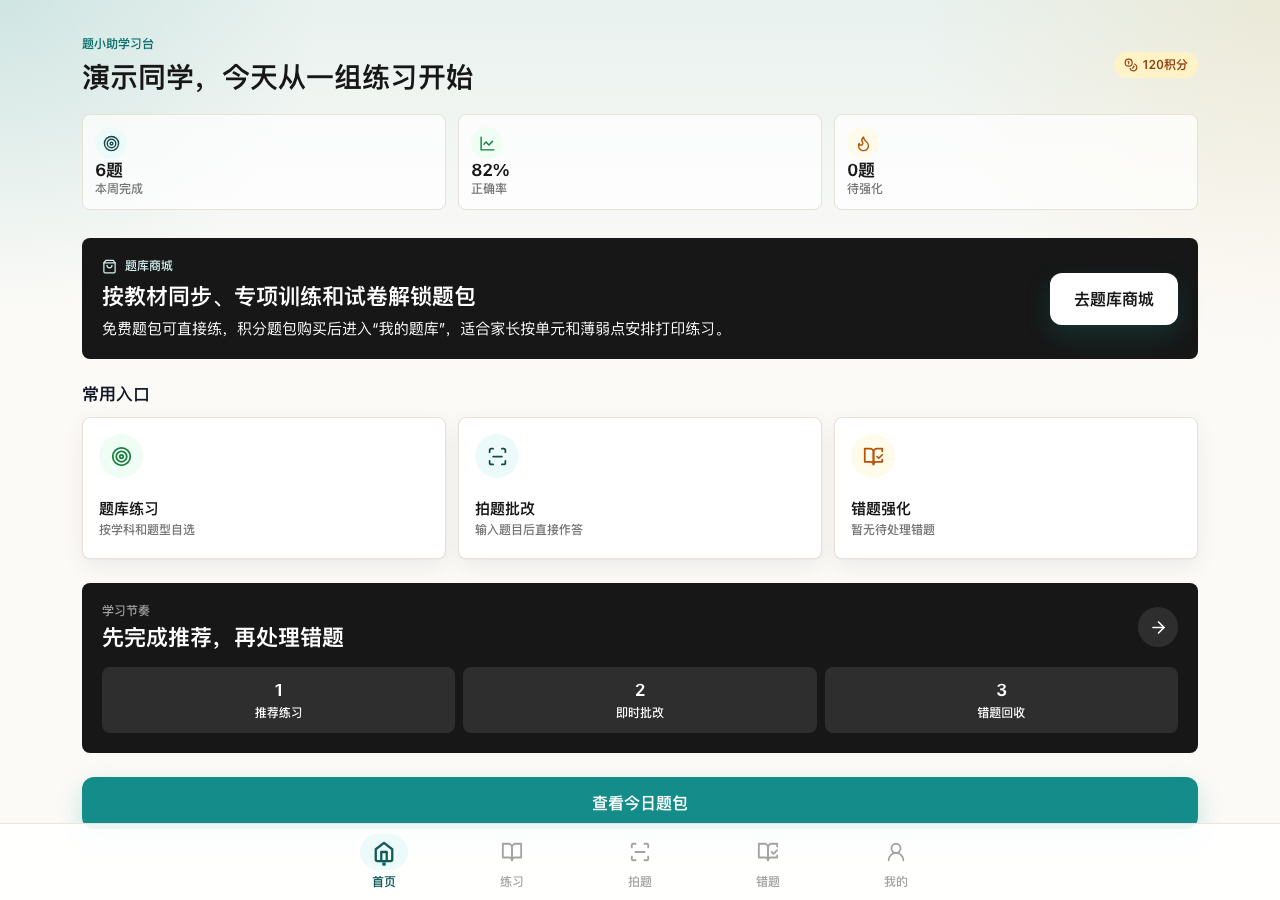
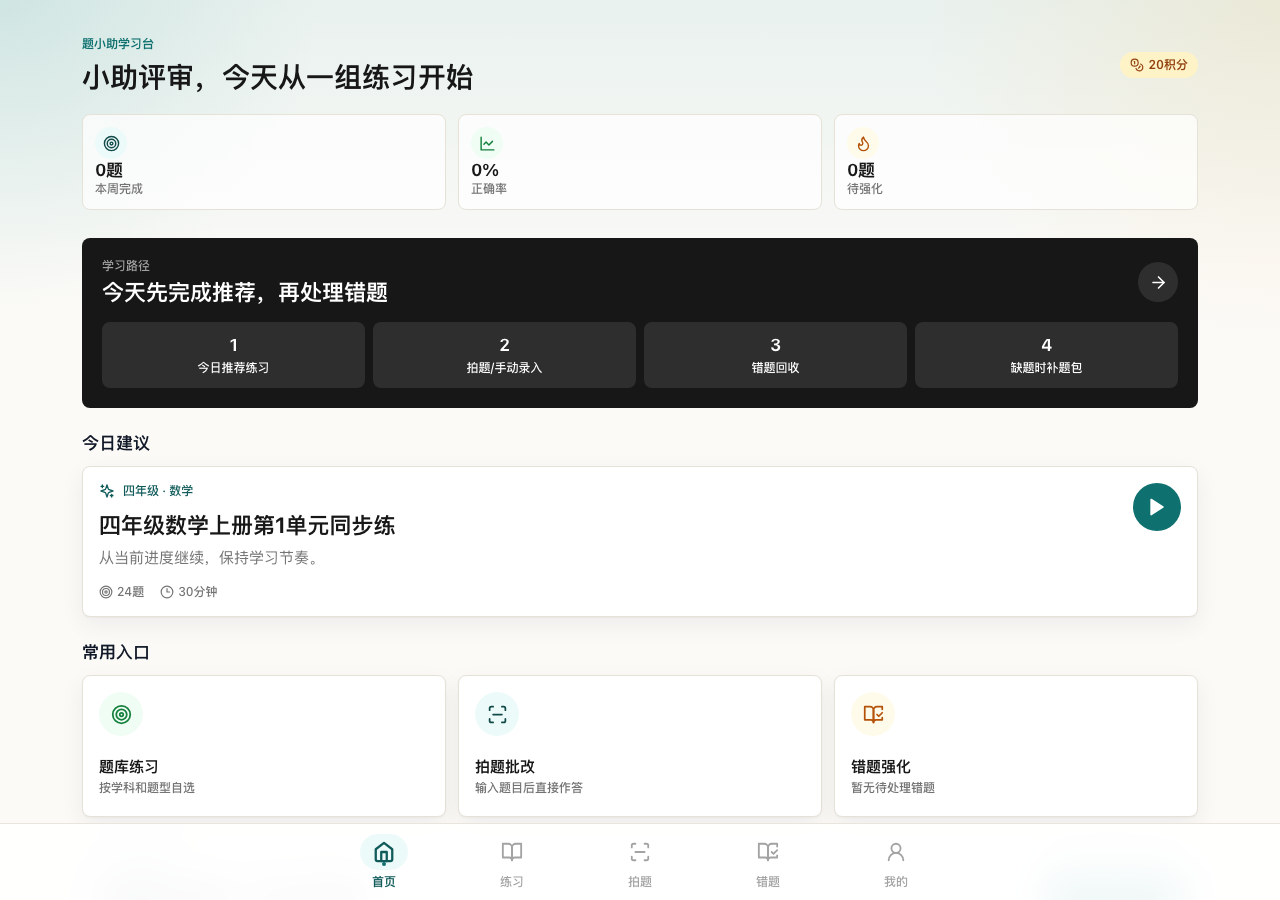
Refine education flow from reviewer feedback

diff --git a/frontend/src/pages/HomePage.jsx b/frontend/src/pages/HomePage.jsx
@@ -156,22 +156,23 @@ const HomePage = ({ onStartPractice, onContinuePractice, onStartWrongPractice, o
           animate={{ opacity: 1, y: 0 }}
           transition={{ delay: 0.05 }}
           className="mb-6 rounded-card bg-neutral-900 p-5 text-white"
-          data-testid="home-question-store-cta"
         >
-          <div className="grid gap-4 lg:grid-cols-[1fr_auto] lg:items-center">
+          <div className="mb-4 flex flex-col gap-3 sm:flex-row sm:items-center sm:justify-between">
             <div>
-              <div className="mb-2 flex items-center gap-2 text-caption-1 text-primary-100">
-                <ShoppingBag size={15} />
-                题库商城
-              </div>
-              <h2 className="text-title-1">按教材同步、专项训练和试卷解锁题包</h2>
-              <p className="mt-2 max-w-2xl text-subhead text-white/68">
-                免费题包可直接练，积分题包购买后进入“我的题库”，适合家长按单元和薄弱点安排打印练习。
-              </p>
+              <div className="text-caption-1 text-white/60">学习路径</div>
+              <h2 className="mt-1 text-title-1">今天先完成推荐，再处理错题</h2>
             </div>
-            <Button onClick={onOpenQuestionStore} className="bg-white text-neutral-900 hover:bg-white/90">
-              去题库商城
-            </Button>
+            <div className="flex h-10 w-10 items-center justify-center rounded-full bg-white/10">
+              <ArrowRight size={19} />
+            </div>
+          </div>
+          <div className="grid grid-cols-1 gap-2 text-center sm:grid-cols-4">
+            {['今日推荐练习', '拍题/手动录入', '错题回收', '缺题时补题包'].map((step, index) => (
+              <div key={step} className="rounded-card bg-white/10 px-2 py-3">
+                <div className="text-title-2">{index + 1}</div>
+                <div className="mt-1 text-caption-1 text-white/68">{step}</div>
+              </div>
+            ))}
           </div>
         </motion.section>
 
@@ -261,24 +262,23 @@ const HomePage = ({ onStartPractice, onContinuePractice, onStartWrongPractice, o
           initial={{ opacity: 0, y: 16 }}
           animate={{ opacity: 1, y: 0 }}
           transition={{ delay: 0.24 }}
-          className="mb-6 rounded-card bg-neutral-900 p-5 text-white"
+          className="mb-6 rounded-card bg-white p-5"
+          data-testid="home-question-store-cta"
         >
-          <div className="mb-4 flex flex-col gap-3 sm:flex-row sm:items-center sm:justify-between">
+          <div className="grid gap-4 lg:grid-cols-[1fr_auto] lg:items-center">
             <div>
-              <div className="text-caption-1 text-white/60">学习节奏</div>
-              <h2 className="mt-1 text-title-1">先完成推荐，再处理错题</h2>
-            </div>
-            <div className="flex h-10 w-10 items-center justify-center rounded-full bg-white/10">
-              <ArrowRight size={19} />
-            </div>
-          </div>
-          <div className="grid grid-cols-1 gap-2 text-center sm:grid-cols-3">
-            {['推荐练习', '即时批改', '错题回收'].map((step, index) => (
-              <div key={step} className="rounded-card bg-white/10 px-2 py-3">
-                <div className="text-title-2">{index + 1}</div>
-                <div className="mt-1 text-caption-1 text-white/68">{step}</div>
+              <div className="mb-2 flex items-center gap-2 text-caption-1 text-primary-700">
+                <ShoppingBag size={15} />
+                题库商城
               </div>
-            ))}
+              <h2 className="text-title-1 text-neutral-900">需要更多题时，再补充题包</h2>
+              <p className="mt-2 max-w-2xl text-subhead text-neutral-500">
+                免费题包可直接练，积分题包购买后进入“我的题库”，适合家长按单元和薄弱点安排打印练习。
+              </p>
+            </div>
+            <Button onClick={onOpenQuestionStore}>
+              去题库商城
+            </Button>
           </div>
         </motion.section>
 

diff --git a/frontend/src/pages/QuestionStorePage.jsx b/frontend/src/pages/QuestionStorePage.jsx
@@ -56,6 +56,21 @@ const recommendationBadge = (level) => ({
   normal: '可选练',
 }[level] || '可选练')
 
+const packKnowledgeHint = (pack) => (
+  pack.coverage ||
+  pack.unitName ||
+  pack.structure ||
+  (pack.series === 'textbook' ? '教材同步知识点' : '主科训练知识点')
+)
+
+const packFitHint = (pack) => {
+  if (pack.recommendation?.reasons?.length > 0) return pack.recommendation.reasons[0]
+  if (pack.series === 'textbook') return '适合同步巩固课堂单元'
+  if (pack.series === 'special') return '适合集中处理薄弱能力'
+  if (pack.series === 'paper') return '适合阶段检测和考前复盘'
+  return '适合按今天练习目标补题'
+}
+
 const normalizePack = (pack) => ({
   ...pack,
   subjectValue: subjectValueByName[pack.subject] || pack.subject || 'math',
@@ -377,7 +392,9 @@ const QuestionStorePage = ({ onBack, onRequireLogin, onStartPractice }) => {
             ['积分余额', pointsAccount.balance || 0],
           ].map(([label, value]) => (
             <div key={label} className="surface-line rounded-card bg-white p-3 text-center">
-              <div className="text-title-2 text-neutral-900">{value}</div>
+              <div className="text-title-2 text-neutral-900">
+                {label === '积分余额' ? `${value} 积分` : `${value} 个题包`}
+              </div>
               <div className="mt-1 text-caption-1 text-neutral-500">{label}</div>
             </div>
           ))}
@@ -611,6 +628,16 @@ const QuestionStorePage = ({ onBack, onRequireLogin, onStartPractice }) => {
                             {pack.series === 'textbook' ? `${pack.semester || ''}${pack.unitName ? ` · ${pack.unitName}` : ''}` : pack.coverage || pack.unitName || '按训练目标组织'}
                           </p>
                           <p className="mt-1 text-caption-1 text-neutral-500">{pack.structure || pack.description || '按题包顺序完成一轮训练。'}</p>
+                          <div className="mt-3 grid gap-2 text-caption-1 text-neutral-600">
+                            <div className="rounded-card bg-primary-50 p-2">
+                              <span className="font-semibold text-primary-800">覆盖知识点：</span>
+                              {packKnowledgeHint(pack)}
+                            </div>
+                            <div className="rounded-card bg-neutral-50 p-2">
+                              <span className="font-semibold text-neutral-700">适合情况：</span>
+                              {packFitHint(pack)}
+                            </div>
+                          </div>
                           {pack.recommendation?.reasons?.length > 0 && (
                             <div className="mt-3 rounded-card bg-amber-50 p-3">
                               <div className="mb-2 flex items-center gap-2 text-caption-1 font-semibold text-amber-800">

diff --git a/docs/release-notes-v0.1.1.md b/docs/release-notes-v0.1.1.md
@@ -1,0 +1,26 @@
+# Tixiaozhu v0.1.1
+
+Product-flow polish based on the first external reviewer feedback.
+
+## Changed
+
+- Moved the student home narrative from a question-store-first flow to a daily learning path:
+  1. Today's recommended practice.
+  2. Capture or manually enter extra questions.
+  3. Recycle wrong questions.
+  4. Add question packs only when more targeted practice is needed.
+- Updated question-store summary numbers to read like parent-facing product copy, for example "42 个题包" and "20 积分" instead of bare dashboard-style numbers.
+- Added visible pack-card hints for covered knowledge points and suitable practice situations.
+- Updated the demo walkthrough to describe the question store as supplemental practice, not the first attention target.
+
+## Thanks
+
+Thanks to `@stevesagronegocios673-ux` for the first public education-product flow review on issue #15. The feedback helped clarify that parents and students need to understand "what should the child do today?" before browsing or buying more question packs.
+
+## Verification
+
+- `npm run build`
+- `npm --prefix backend run audit:question-bank`
+- `npm --prefix backend run audit:product-readiness`
+- `npm --prefix backend run audit:runtime-security`
+- `npm run audit:production-build`

diff --git a/docs/demo.md b/docs/demo.md
@@ -4,23 +4,27 @@ This page is a quick visual tour for reviewers, contributors, and Codex for OSS 
 
 ## 1. Student Learning Dashboard
 
-The student app starts from a learning dashboard with points, progress, practice entry points, capture/manual correction, wrong-question review, and question-store navigation.
+The student app starts from a daily learning path rather than a marketplace-first view. The first question is "what should the child do today?": finish the recommended practice, capture or manually enter extra questions, recycle wrong questions, and only then use the question store to add more targeted packs.
 
 ![Student learning dashboard](assets/screenshots/student-home.png)
 
 ## 2. Question Store
 
-The question store organizes primary-school Chinese, math, and English into textbook-sync, special-training, and paper/diagnostic packs. The current baseline contains `252` packs, `6912` questions, and `108` knowledge points.
+The question store is a supplemental source of practice. It organizes primary-school Chinese, math, and English into textbook-sync, special-training, and paper/diagnostic packs. The current baseline contains `252` packs, `6912` questions, and `108` knowledge points. Pack cards now emphasize the covered knowledge points and the situation where a pack is useful, so parents can understand why a child should practice it instead of only seeing a category label.
 
 ![Question store](assets/screenshots/question-store.png)
 
-## 3. Operations Admin
+## 3. First Reviewer Feedback
+
+The v0.1.1 flow polish was prompted by early public feedback from `@stevesagronegocios673-ux` on issue #15. Their review pointed out that parents and students need a stronger "today's task" path before browsing question packs. The project now treats the question store as a supplemental source, not the first attention target on the student home page.
+
+## 4. Operations Admin
 
 The admin app includes dashboard, users, question content, AI generation, knowledge points, learning records, billing/points, and settings.
 
 ![Admin dashboard](assets/screenshots/admin-dashboard.png)
 
-## 4. Launch Gates
+## 5. Launch Gates
 
 The repository includes GitHub Actions launch gates for:
 
@@ -35,6 +39,6 @@ The repository includes GitHub Actions launch gates for:
 
 Latest workflow: [OSS Launch Gates](https://github.com/cxhihilwb123-hash/tixiaozhu-oss/actions/workflows/launch-gates.yml).
 
-## 5. Why It Is Useful
+## 6. Why It Is Useful
 
 Tixiaozhu is designed as a complete Chinese AI education-product engineering sample. It shows how to combine student UX, admin operations, structured content, auth, payments/points, production gates, and audit workflows in one AGPL open-source repository.

diff --git a/README.md b/README.md
@@ -4,7 +4,7 @@
 [![Release](https://img.shields.io/github/v/release/cxhihilwb123-hash/tixiaozhu-oss)](https://github.com/cxhihilwb123-hash/tixiaozhu-oss/releases)
 [![License: AGPL-3.0-or-later](https://img.shields.io/badge/license-AGPL--3.0--or--later-blue.svg)](LICENSE)
 
-Tixiaozhu is an open-source Chinese education-product engineering sample. It includes a student app, an operations admin app, and a Node API for primary-school practice, question banks, wrong-question review, manual capture correction, points, orders, launch gates, and production-readiness checks.
+Tixiaozhu is an open-source Chinese education-product engineering sample. It includes a student app, an operations admin app, and a Node API for primary-school practice, question banks, wrong-question review, manual capture correction, points, orders, launch gates, and production-readiness checks. The student flow is designed around a daily learning path: finish today's recommended practice, capture or enter extra questions when needed, recycle wrong questions, and use the question store only when more targeted packs are needed.
 
 This repository is licensed under GNU Affero General Public License v3.0 or later. Commercial use is allowed under AGPL terms. If a company wants proprietary use without AGPL obligations, contact the copyright holder for a separate commercial license. See [LICENSE](LICENSE) and [COMMERCIAL.md](COMMERCIAL.md).
 
@@ -18,7 +18,7 @@ Useful contributions may receive public recognition or optional maintainer-confi
 
 ## Highlights
 
-- Student React/Vite app with onboarding, practice center, question store, capture/manual-input correction, wrong-question workbench, and profile flows.
+- Student React/Vite app with onboarding, daily recommended practice, capture/manual-input correction, wrong-question recycling, a practice center, question-store fallback, and profile flows.
 - Admin React/Vite app with login, dashboard, users, question packs, knowledge points, AI generation, learning records, billing, points, orders, refunds, and system settings.
 - Node API with student/admin auth, local file persistence, PostgreSQL JSONB snapshot support, payment state flows, webhook verification, AI/OCR strategy gates, and static app serving.
 - Question-bank product structure for primary-school Chinese, math, and English.
@@ -151,6 +151,8 @@ Visual walkthrough: [docs/demo.md](docs/demo.md).
 Contributor onboarding: [docs/join-the-project.md](docs/join-the-project.md).
 
 Contributor rewards: [docs/contributor-rewards.md](docs/contributor-rewards.md).
+
+Recent external feedback: [docs/release-notes-v0.1.1.md](docs/release-notes-v0.1.1.md).
 
 ## Environment Files
 